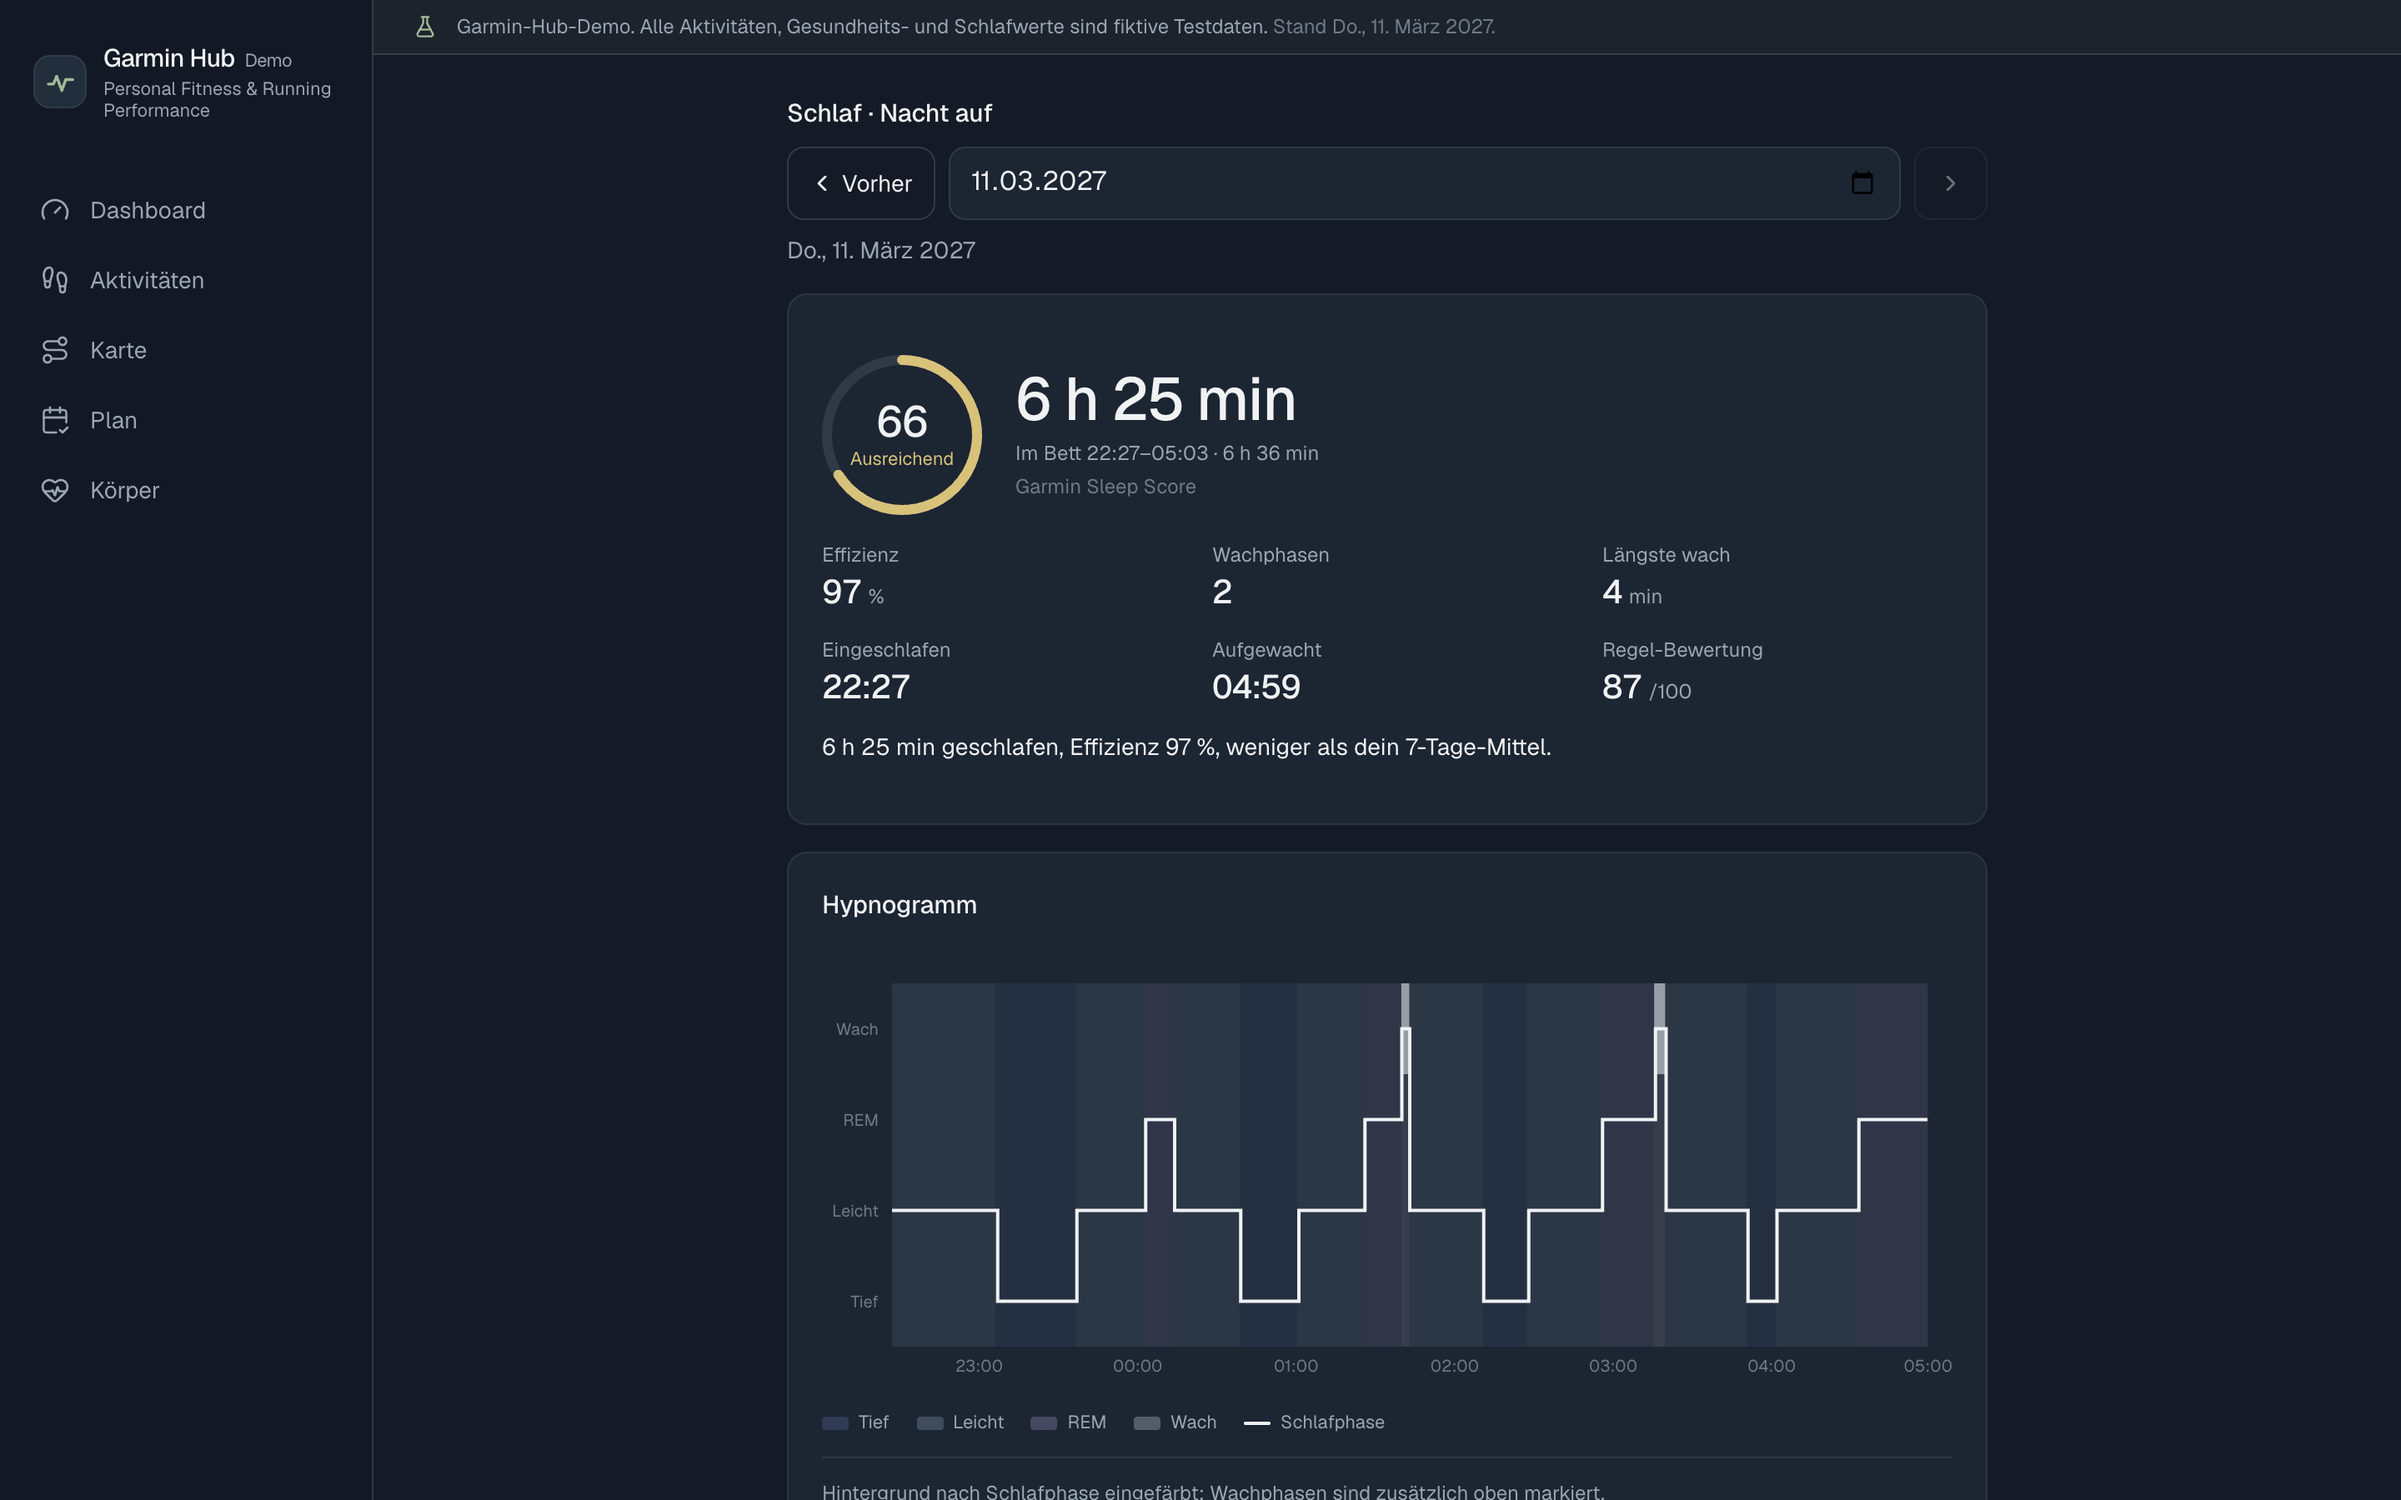
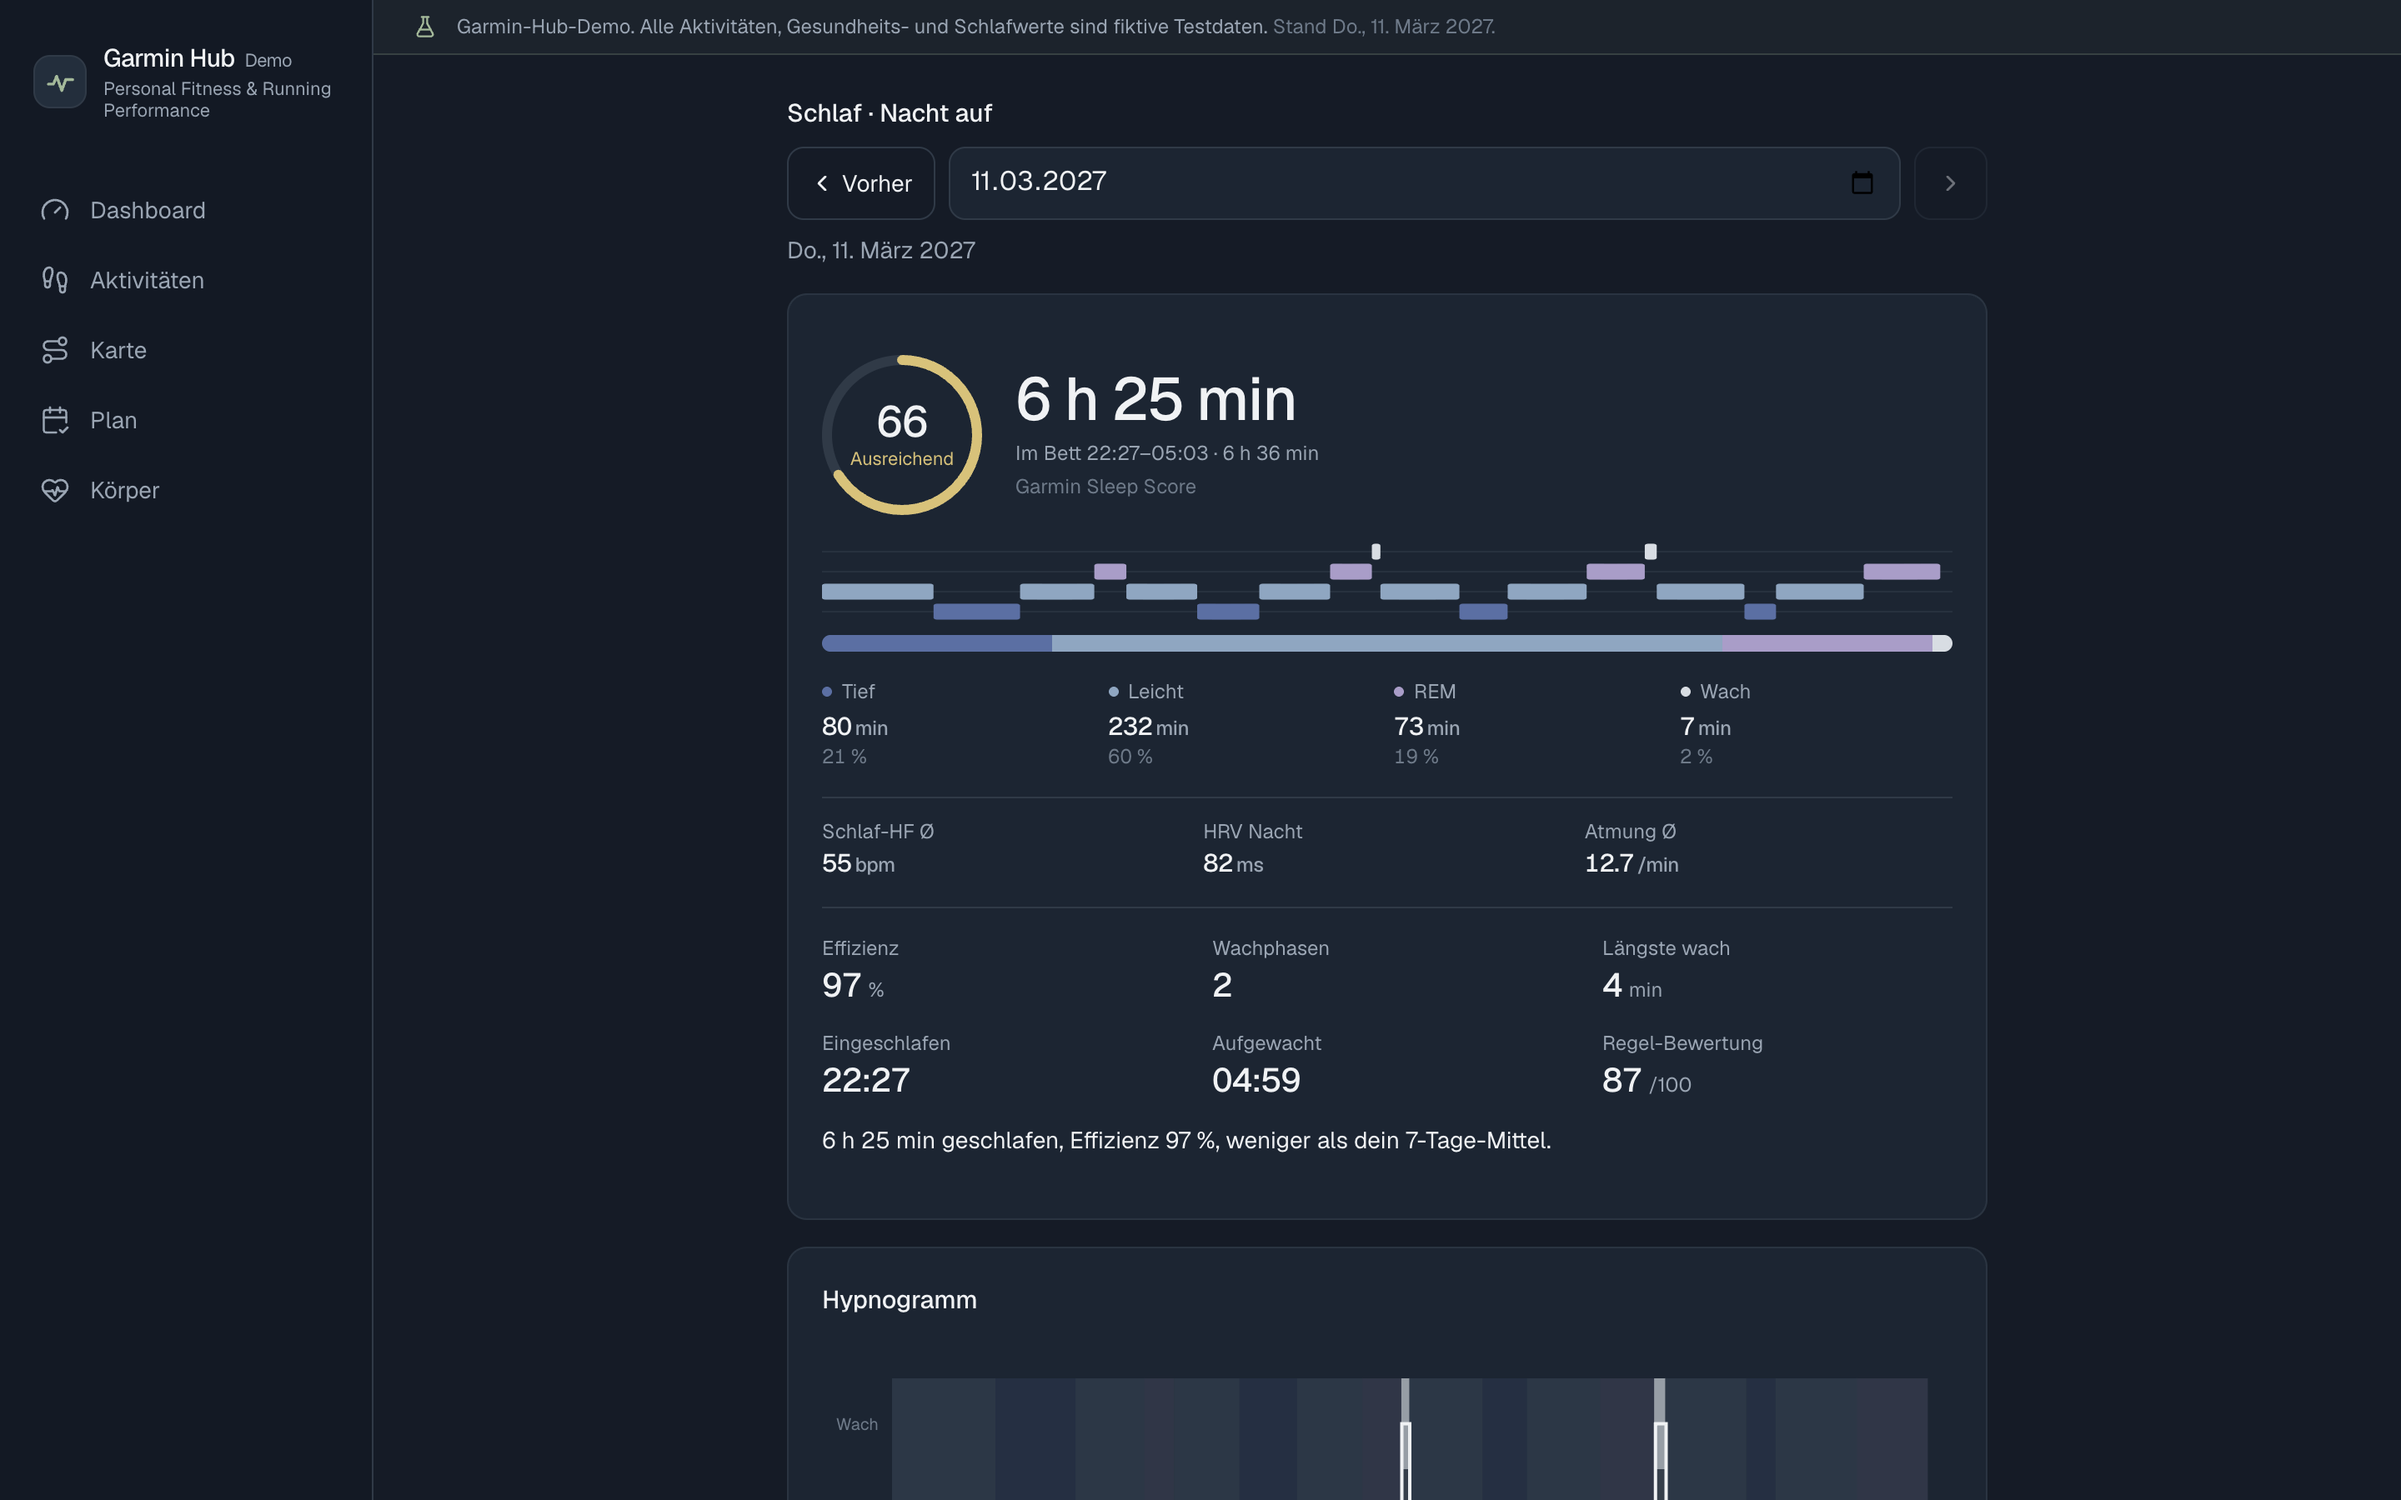
feat: Nachtüberblick auch oben auf der Schlafseite
- Phasen-Zeitleiste, Phasenbalken, Phasen in Minuten und Prozent sowie
  Schlaf-HF, HRV und Atmung als gemeinsame Komponente NachtUeberblick
- Schlafseite: Überblick direkt unter dem Score-Ring, danach Effizienz,
  Wachphasen und Einschlaf-/Aufwachzeit
- Dashboard nutzt dieselbe Komponente (unverändert im Aussehen)

diff --git a/components/dashboard/schlaf-kachel-ansicht.tsx b/components/dashboard/schlaf-kachel-ansicht.tsx
@@ -1,11 +1,9 @@
 import { AppLink as Link } from "@/components/basis-pfad";
 import { Abschnitt } from "@/components/ui/kachel";
 import { Skeleton } from "@/components/ui/skeleton";
-import { HypnogrammMini } from "@/components/schlaf/hypnogramm-mini";
-import { PhasenBalken } from "@/components/schlaf/phasen-balken";
+import { NachtUeberblick } from "@/components/schlaf/nacht-ueberblick";
 import { ScoreRing } from "@/components/schlaf/score-ring";
-import { PHASEN_FARBE } from "@/components/schlaf/farben";
-import { formatDauer, PHASEN, PHASEN_LABEL } from "@/lib/engine/schlaf";
+import { formatDauer } from "@/lib/engine/schlaf";
 import { formatDatumLang } from "@/lib/format";
 import type { SchlafDetail } from "@/lib/server/sleep-service";
 import { cn } from "@/lib/utils";
@@ -31,19 +29,6 @@ export function SchlafKachelSkeleton() {
         <Skeleton className="h-10 w-full" />
       </div>
     </Abschnitt>
-  );
-}
-
-/** Ein Wert in der Kopfzeile des Schlafabschnitts */
-function Wert({ label, wert, einheit }: { label: string; wert: string | null; einheit?: string }) {
-  return (
-    <div className="min-w-0">
-      <div className="text-xs text-muted-foreground">{label}</div>
-      <div className="stat-display text-[15px] whitespace-nowrap">
-        {wert ?? <span className="text-dim-foreground">–</span>}
-        {wert && einheit && <span className="ml-0.5 text-xs text-muted-foreground">{einheit}</span>}
-      </div>
-    </div>
   );
 }
 
@@ -88,41 +73,7 @@ export function SchlafKachelAnsicht({ detail, heute }: { detail: SchlafDetail | 
           </div>
         </div>
 
-        {/* Verlauf der Nacht: Phasen-Zeitleiste und Anteile */}
-        <div className="space-y-2">
-          <HypnogrammMini epochen={detail.epochen} startMs={z.startMs} endeMs={z.endeMs} className="h-12 w-full" />
-          <PhasenBalken phasen={a.phasen} legende={false} />
-        </div>
-
-        <dl className="grid grid-cols-4 gap-2">
-          {PHASEN.map((p) => (
-            <div key={p} className="min-w-0">
-              <dt className="flex items-center gap-1.5 text-xs text-muted-foreground">
-                <span className="size-1.5 shrink-0 rounded-full" style={{ background: PHASEN_FARBE[p] }} />
-                {PHASEN_LABEL[p]}
-              </dt>
-              <dd className="stat-display mt-0.5 text-[15px] whitespace-nowrap">
-                {a.phasen[p].minuten != null ? (
-                  <>
-                    {a.phasen[p].minuten}
-                    <span className="ml-0.5 text-xs text-muted-foreground">min</span>
-                  </>
-                ) : (
-                  <span className="text-dim-foreground">–</span>
-                )}
-              </dd>
-              <dd className="text-xs text-dim-foreground tabular-nums">
-                {a.phasen[p].prozent != null ? `${Math.round(a.phasen[p].prozent!)} %` : "–"}
-              </dd>
-            </div>
-          ))}
-        </dl>
-
-        <div className="grid grid-cols-3 gap-2 border-t border-border pt-3">
-          <Wert label="Schlaf-HF Ø" wert={a.hr ? String(Math.round(a.hr.mittel)) : null} einheit="bpm" />
-          <Wert label="HRV Nacht" wert={a.hrv ? String(Math.round(a.hrv.mittel)) : null} einheit="ms" />
-          <Wert label="Atmung Ø" wert={a.atem ? a.atem.mittel.toFixed(1) : null} einheit="/min" />
-        </div>
+        <NachtUeberblick epochen={detail.epochen} analyse={a} />
 
         {a.fazit && <p className="text-[13px] leading-snug text-muted-foreground">{a.fazit}</p>}
       </div>

diff --git a/components/schlaf/nacht-ueberblick.tsx b/components/schlaf/nacht-ueberblick.tsx
@@ -1,0 +1,68 @@
+import { HypnogrammMini } from "./hypnogramm-mini";
+import { PhasenBalken } from "./phasen-balken";
+import { PHASEN_FARBE } from "./farben";
+import { PHASEN, PHASEN_LABEL, type SchlafAnalyse } from "@/lib/engine/schlaf";
+import type { SchlafEpoche } from "@/lib/engine/schlaf-parser";
+
+/** Ein Wert der Zeile Schlaf-HF · HRV · Atmung */
+function Wert({ label, wert, einheit }: { label: string; wert: string | null; einheit?: string }) {
+  return (
+    <div className="min-w-0">
+      <div className="text-xs text-muted-foreground">{label}</div>
+      <div className="stat-display text-[15px] whitespace-nowrap">
+        {wert ?? <span className="text-dim-foreground">–</span>}
+        {wert && einheit && <span className="ml-0.5 text-xs text-muted-foreground">{einheit}</span>}
+      </div>
+    </div>
+  );
+}
+
+/**
+ * Überblick einer Nacht (Dashboard und Kopf der Schlafseite, je unter dem
+ * Score-Ring): Phasen-Zeitleiste, Phasenanteile als Balken, Tief · Leicht ·
+ * REM · Wach in Minuten und Prozent, dazu Schlaf-HF, HRV und Atmung.
+ * Server- und client-tauglich.
+ */
+export function NachtUeberblick({ epochen, analyse }: { epochen: SchlafEpoche[]; analyse: SchlafAnalyse }) {
+  const a = analyse;
+  const z = a.zusammenfassung;
+  return (
+    <div className="space-y-4">
+      {/* Verlauf der Nacht: Phasen-Zeitleiste und Anteile */}
+      <div className="space-y-2">
+        <HypnogrammMini epochen={epochen} startMs={z.startMs} endeMs={z.endeMs} className="h-12 w-full" />
+        <PhasenBalken phasen={a.phasen} legende={false} />
+      </div>
+
+      <dl className="grid grid-cols-4 gap-2">
+        {PHASEN.map((p) => (
+          <div key={p} className="min-w-0">
+            <dt className="flex items-center gap-1.5 text-xs text-muted-foreground">
+              <span className="size-1.5 shrink-0 rounded-full" style={{ background: PHASEN_FARBE[p] }} />
+              {PHASEN_LABEL[p]}
+            </dt>
+            <dd className="stat-display mt-0.5 text-[15px] whitespace-nowrap">
+              {a.phasen[p].minuten != null ? (
+                <>
+                  {a.phasen[p].minuten}
+                  <span className="ml-0.5 text-xs text-muted-foreground">min</span>
+                </>
+              ) : (
+                <span className="text-dim-foreground">–</span>
+              )}
+            </dd>
+            <dd className="text-xs text-dim-foreground tabular-nums">
+              {a.phasen[p].prozent != null ? `${Math.round(a.phasen[p].prozent!)} %` : "–"}
+            </dd>
+          </div>
+        ))}
+      </dl>
+
+      <div className="grid grid-cols-3 gap-2 border-t border-border pt-3">
+        <Wert label="Schlaf-HF Ø" wert={a.hr ? String(Math.round(a.hr.mittel)) : null} einheit="bpm" />
+        <Wert label="HRV Nacht" wert={a.hrv ? String(Math.round(a.hrv.mittel)) : null} einheit="ms" />
+        <Wert label="Atmung Ø" wert={a.atem ? a.atem.mittel.toFixed(1) : null} einheit="/min" />
+      </div>
+    </div>
+  );
+}

diff --git a/components/schlaf/schlaf-detail.tsx b/components/schlaf/schlaf-detail.tsx
@@ -56,6 +56,7 @@ import {
 } from "@/components/ui/diagramm";
 import { PhasenBalken } from "./phasen-balken";
 import { ScoreRing } from "./score-ring";
+import { NachtUeberblick } from "./nacht-ueberblick";
 
 /* ------------------------------------------------------------------ */
 /* Daten                                                               */
@@ -397,7 +398,9 @@ function KopfKarte({ d }: { d: Detail | null }) {
             <div className="mt-1 text-xs text-dim-foreground">Garmin Sleep Score</div>
           </div>
         </div>
-        <div className={KENNZAHLEN}>
+        {/* Überblick der Nacht wie im Dashboard: Zeitleiste, Phasen, Puls · HRV · Atmung */}
+        <NachtUeberblick epochen={d.epochen} analyse={a} />
+        <div className={`${KENNZAHLEN} border-t border-border pt-4`}>
           <Kennzahl label="Effizienz" wert={z.effizienzProz != null ? Math.round(z.effizienzProz) : null} einheit="%" />
           <Kennzahl label="Wachphasen" wert={z.anzahlWachphasen} />
           <Kennzahl label="Längste wach" wert={z.laengsteWachphaseS != null ? Math.round(z.laengsteWachphaseS / 60) : null} einheit="min" />

diff --git a/docs/SCHLAF.md b/docs/SCHLAF.md
@@ -125,8 +125,9 @@ darunter schlecht (`schlafScoreStufe`), Bogen in der Statusfarbe; daneben Dauer,
 Bettzeit, Effizienz und die Abweichung vom Mittel der letzten 7 Nächte.
 Darunter der Verlauf der Nacht (Mini-Hypnogramm und Phasenanteile als Balken),
 Tief, Leicht, REM und Wach in Minuten und Prozent, Schlaf-Herzfrequenz, HRV und
-Atmung (je Ø der Nacht) und ein Satz Fazit. Den gleichen Ring zeigt der Kopf der
-Detailansicht. „Details ›" führt zu `/schlaf/<datum>`. Eigene
+Atmung (je Ø der Nacht) und ein Satz Fazit. Ring und Überblick der Nacht
+(`components/schlaf/nacht-ueberblick.tsx`) zeigt auch der Kopf der
+Detailansicht, dort gefolgt von Effizienz, Wachphasen und Einschlaf-/Aufwachzeit. „Details ›" führt zu `/schlaf/<datum>`. Eigene
 Suspense-Grenze mit Skeleton, damit das Dashboard nicht wartet. Ohne Daten:
 „Noch keine Schlafdaten — nach dem nächsten Sync verfügbar."
 
